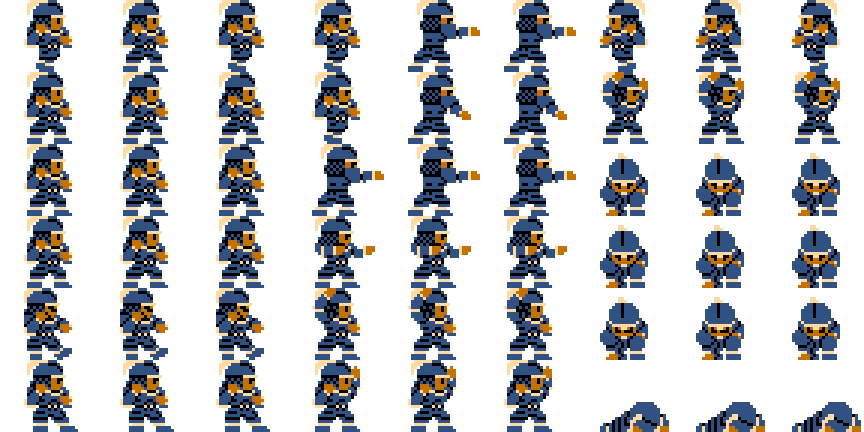
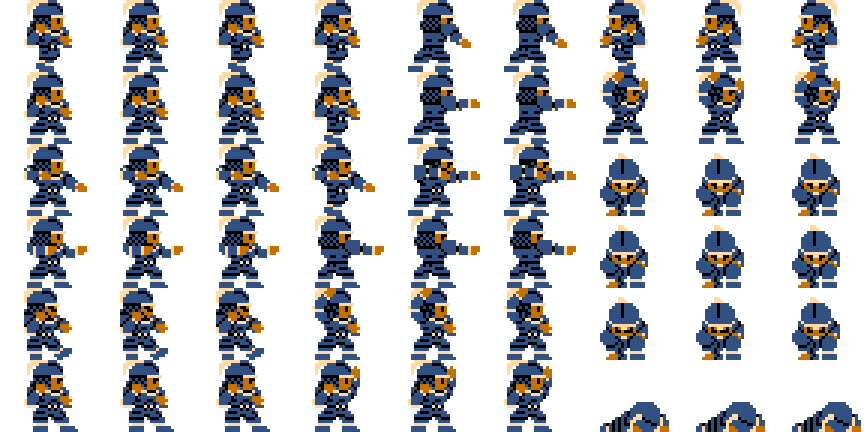
spear/bow, 2H thrust, and 1H ranged animations

diff --git a/js/rmmz_sprites.js b/js/rmmz_sprites.js
@@ -657,11 +657,11 @@ Sprite_Actor.MOTIONS = {
     guard: { index: 3, loop: true },
     damage: { index: 4, loop: false },
     evade: { index: 5, loop: false },
-    thrust: { index: 6, loop: false },
-    swing: { index: 7, loop: false },
-    missile: { index: 8, loop: false },
-    skill: { index: 9, loop: false },
-    spell: { index: 10, loop: false },
+    swing: { index: 6, loop: false },
+    thrust: { index: 7, loop: false },
+    spell: { index: 8, loop: false },
+    missile: { index: 9, loop: false },
+    skill: { index: 10, loop: false },
     item: { index: 11, loop: false },
     escape: { index: 12, loop: true },
     victory: { index: 13, loop: true },
